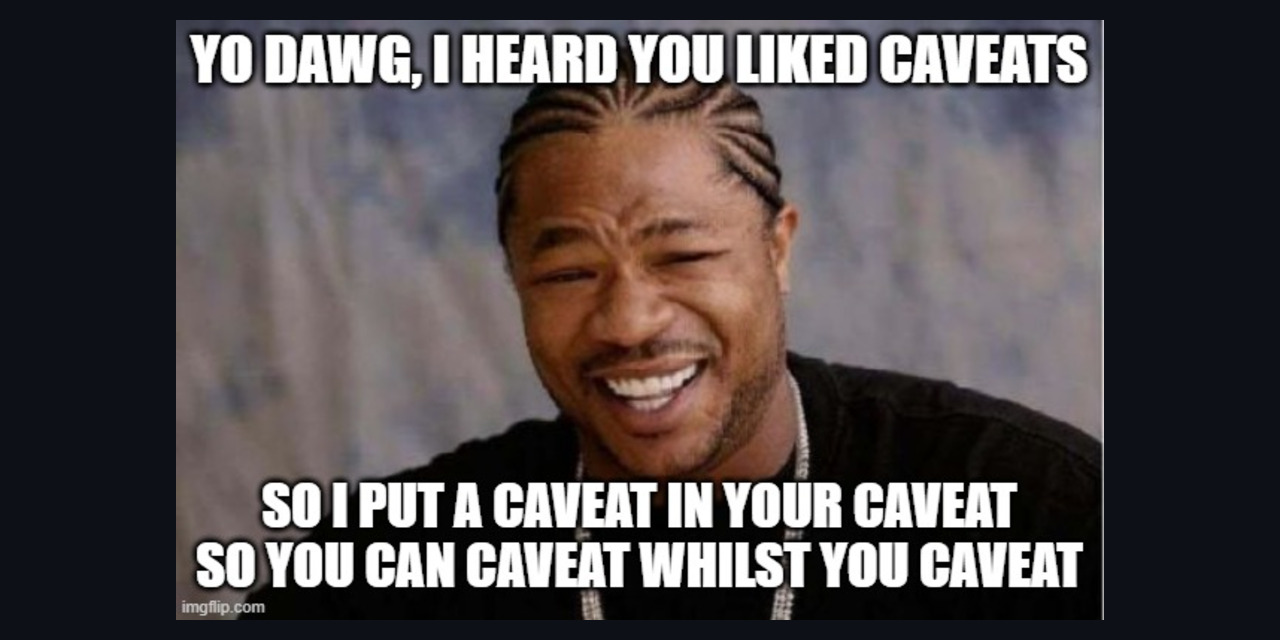
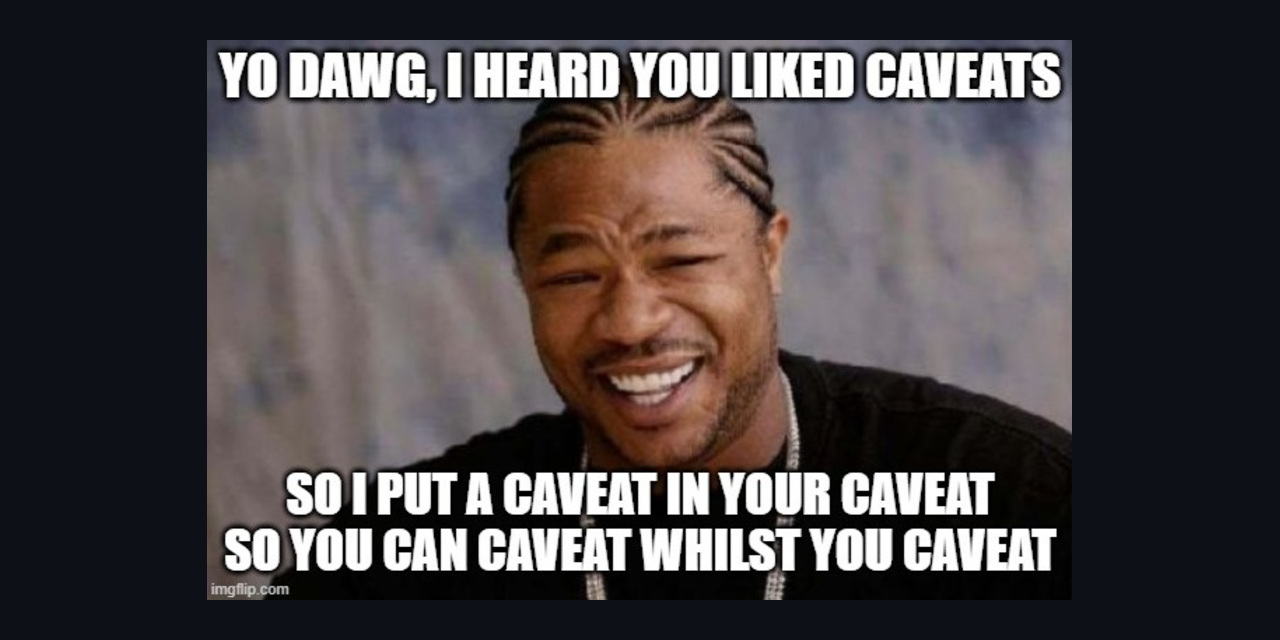
Singular naming, clean cover, working badges, CI
The repo, skill, plugin, package, slash command and audit header all read
no-honest-caveat now. The old plural URL redirects.

Cover image: cropped the white column off the right edge of the meme and
rebuilt assets/cover.jpg as a centred 1280x640 card for the GitHub social
preview, which wants 2:1 and would otherwise crop it.

The skills.sh badge was rendering a red 'resource not found', because the
registry has no record of a repo nobody has installed yet. Replaced with a
plain link badge, plus a real tests badge backed by a new GitHub Actions
workflow that runs the suite and checks the agent rule copies for drift.

Header is centred, with the thesis as a heading rather than a muted
blockquote.

diff --git a/scripts/audit.js b/scripts/audit.js
@@ -144,7 +144,7 @@ function report() {
 
   console.log(rule('─'));
   console.log(`  ${C.dim}The repair was named in the same sentence as the excuse.${C.off}`);
-  console.log(`  ${C.dim}github.com/valentinozegna/no-honest-caveats${C.off}`);
+  console.log(`  ${C.dim}github.com/valentinozegna/no-honest-caveat${C.off}`);
   console.log('');
 
   function row(label, value) {

diff --git a/README.md b/README.md
@@ -1,11 +1,16 @@
+<div align="center">
+
 # no-honest-caveat
 
-[![skills.sh](https://skills.sh/b/valentinozegna/no-honest-caveats)](https://skills.sh/valentinozegna/no-honest-caveats)
+<img src="assets/yo-dawg.jpg" width="520" alt="Yo dawg, I heard you liked caveats, so I put a caveat in your caveat so you can caveat whilst you caveat">
 
-<img src="assets/yo-dawg.jpg" alt="Yo dawg, I heard you liked caveats, so I put a caveat in your caveat so you can caveat whilst you caveat" width="520">
+### A caveat is a defect you found, understood, priced,<br>and typed out instead of repaired.<br>You already did the expensive part. Finish.
 
-> A caveat is a defect you found, understood, priced, and typed out instead of
-> repaired. You already did the expensive part. Finish.
+[![tests](https://github.com/valentinozegna/no-honest-caveat/actions/workflows/test.yml/badge.svg)](https://github.com/valentinozegna/no-honest-caveat/actions/workflows/test.yml)
+[![license](https://img.shields.io/badge/license-MIT-blue)](LICENSE)
+[![skills.sh](https://img.shields.io/badge/skills.sh-no--honest--caveat-black)](https://skills.sh/valentinozegna/no-honest-caveat)
+
+</div>
 
 You know the ending. The agent works for twenty minutes, ships something good,
 then closes with **"one honest caveat"**, **"worth flagging"**, **"Say the word
@@ -82,7 +87,7 @@ Run the numbers on your own history, if you are feeling robust. Read-only, and
 nothing leaves your machine:
 
 ```bash
-npx -y github:valentinozegna/no-honest-caveats
+npx -y github:valentinozegna/no-honest-caveat
 ```
 
 It prints your counts by phrase, how often you said yes, how rarely the
@@ -95,7 +100,7 @@ cost you a round trip for nothing. Installed as a plugin,
 **Skills CLI** (Claude Code, Cursor, Codex, Copilot, Gemini, and the rest):
 
 ```bash
-npx skills add valentinozegna/no-honest-caveats
+npx skills add valentinozegna/no-honest-caveat
 ```
 
 That installs the skill itself, which is self-sufficient.
@@ -104,7 +109,7 @@ That installs the skill itself, which is self-sufficient.
 command on top of the skill:
 
 ```
-/plugin marketplace add valentinozegna/no-honest-caveats
+/plugin marketplace add valentinozegna/no-honest-caveat
 /plugin install no-honest-caveat
 ```
 
@@ -124,7 +129,7 @@ drift.
 The audit runs from anywhere without installing:
 
 ```bash
-npx -y github:valentinozegna/no-honest-caveats
+npx -y github:valentinozegna/no-honest-caveat
 ```
 
 ## What you get

diff --git a/skills/no-honest-caveat/SKILL.md b/skills/no-honest-caveat/SKILL.md
@@ -39,7 +39,7 @@ Measure it on your own history. Whatever your number is, the shape will be
 this one.
 
 ```bash
-npx -y github:valentinozegna/no-honest-caveats
+npx -y github:valentinozegna/no-honest-caveat
 ```
 
 ## The tell
